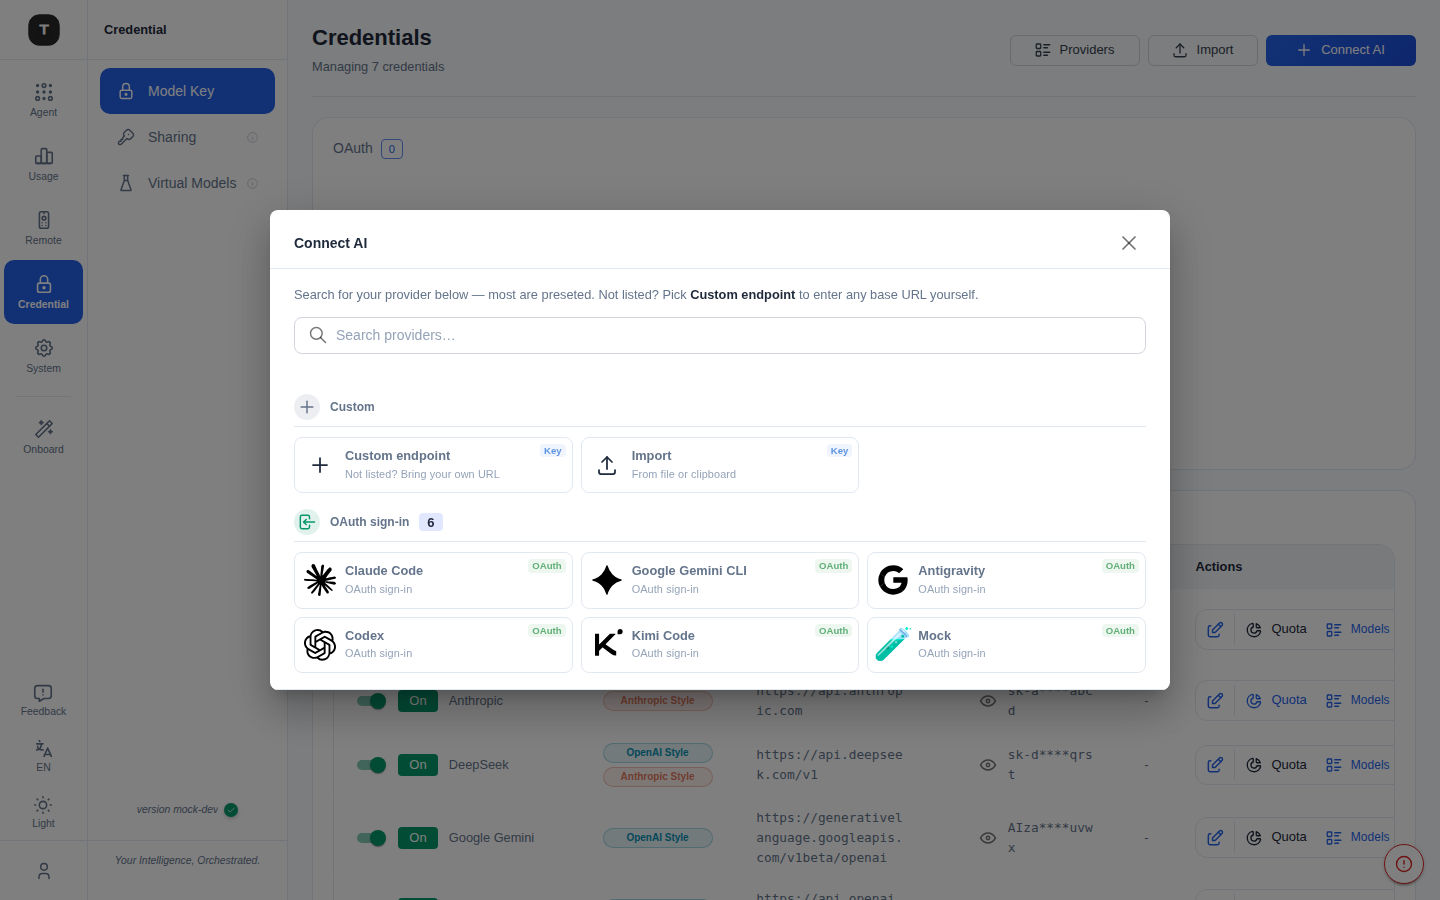
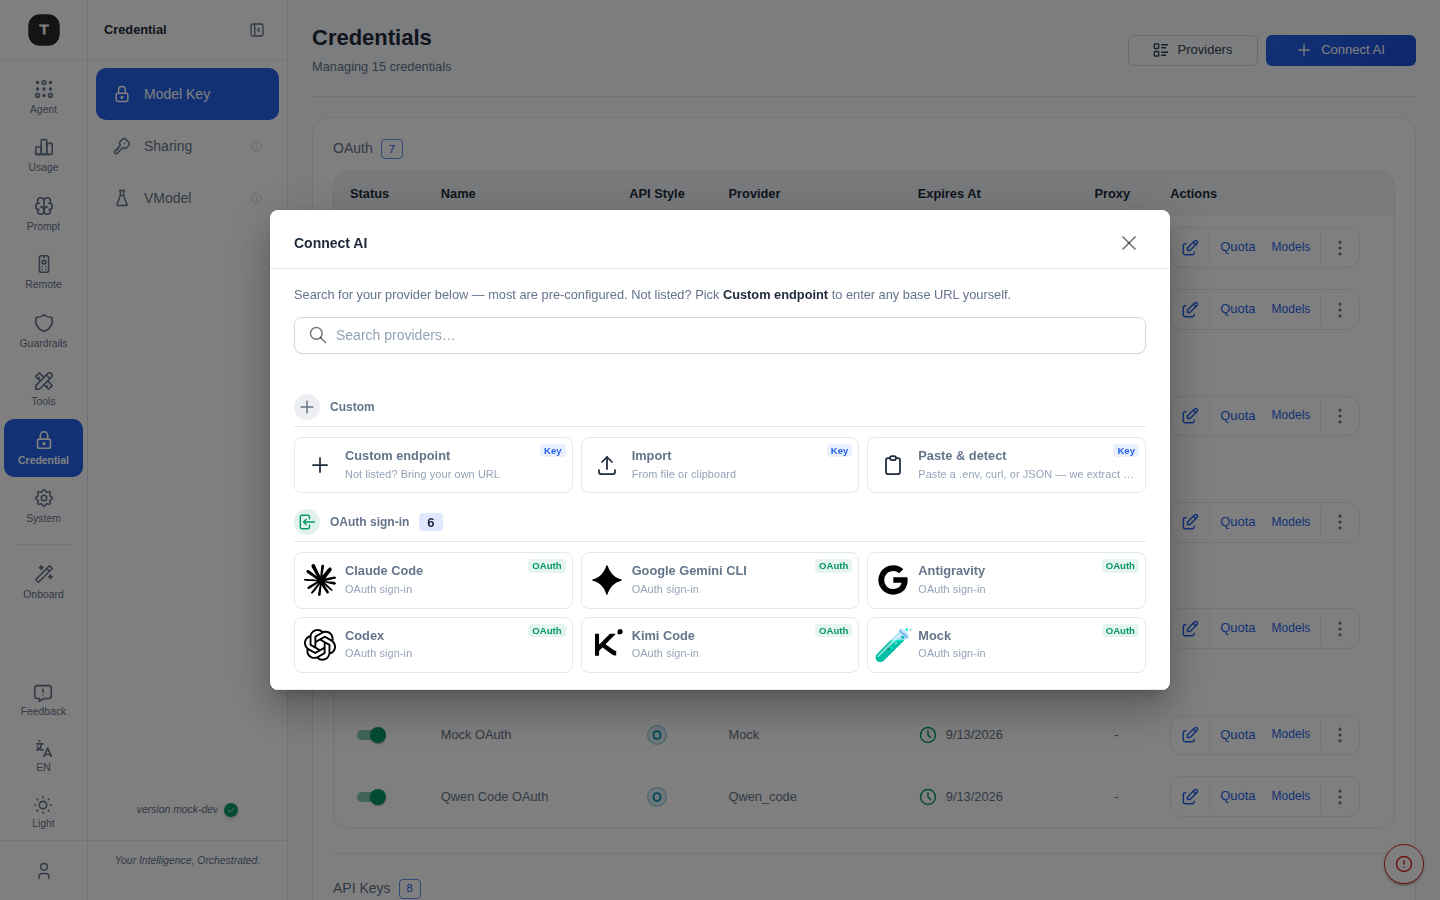
chore: retake docs screenshots on fresh branch, add MCP shot, unlock experimental flags in mocks
Upstream changed substantially since the last capture (389 commits): new
Response Performance panel on the dashboard, regrouped Agent/Credential
sidebar nav, and both Guardrails and MCP Tools moved behind an experimental
feature flag (/api/v1/scenario/_global/flag/{guardrails,mcp}) with no mock
handler, so both pages previously 404'd/redirected in mock mode.

- Added a mock handler for GET/PUT /api/v1/scenario/:scenario/flag/:flag
  that always returns enabled, so both gated pages render for screenshots.
- Added mock MCP runtime config (GET/PUT /api/v1/mcp/config, GET
  /api/v1/mcp/clients) with a builtin webtools source plus filesystem/
  github/postgres example servers, so the new MCP Tools page has content.
- Added 10-mcp.png (MCP Tools → Registered Servers) to the screenshot set.
- Retook all 9 core product shots + 3 theme previews at 1440×900.
- output.gif now built from only the 8 core product-story shots
  (dashboard, agents, connect-ai, model-select, claude-code, routing,
  remote, heatmap) — guardrails and mcp are opt-in experimental features
  and are intentionally excluded from the animated GIF.

https://claude.ai/code/session_016HvDjTqYfqLtgTjfoiJg1W

diff --git a/frontend/src/mocks/handlers.ts b/frontend/src/mocks/handlers.ts
@@ -2036,6 +2036,19 @@ export const handlers = [
         return HttpResponse.json({ success: true, data: { scenario, ...body } })
     }),
 
+    // Experimental feature flags (guardrails, mcp, skill_user, skill_ide) —
+    // enable them all in mock mode so their gated pages are screenshot-able.
+    http.get('/api/v1/scenario/:scenario/flag/:flag', ({ params }) => {
+        const { scenario, flag } = params as { scenario: string; flag: string }
+        return HttpResponse.json({ success: true, data: { scenario, flag, value: true } })
+    }),
+
+    http.put('/api/v1/scenario/:scenario/flag/:flag', async ({ params, request }) => {
+        const { scenario, flag } = params as { scenario: string; flag: string }
+        const body = await request.json() as { value?: boolean }
+        return HttpResponse.json({ success: true, data: { scenario, flag, value: body.value ?? true } })
+    }),
+
     http.post('/api/v1/rule', async ({ request }) => {
         const body = await request.json() as any
         const scenario = body.scenario?.trim()
@@ -2245,6 +2258,46 @@ export const handlers = [
     }),
 
     http.get('/api/v1/guardrails/credentials', () => {
+        return HttpResponse.json({ success: true, data: [] })
+    }),
+
+    // ============================================
+    // MCP (Model Context Protocol) runtime config
+    // ============================================
+    http.get('/api/v1/mcp/config', () => {
+        return HttpResponse.json({
+            success: true,
+            config: {
+                sources: [
+                    { id: 'webtools', enabled: true, transport: 'advisor', visibility: 'client' },
+                    {
+                        id: 'filesystem', enabled: true, transport: 'stdio', visibility: 'server',
+                        command: 'npx', args: ['-y', '@modelcontextprotocol/server-filesystem', '/home/user/projects'],
+                        tools: ['read_file', 'write_file', 'list_directory'],
+                    },
+                    {
+                        id: 'github', enabled: true, transport: 'http', visibility: 'client',
+                        endpoint: 'https://api.githubcopilot.com/mcp',
+                        tools: ['search_repositories', 'create_issue', 'get_pull_request'],
+                    },
+                    {
+                        id: 'postgres', enabled: false, transport: 'stdio', visibility: 'server',
+                        command: 'npx', args: ['-y', '@modelcontextprotocol/server-postgres'],
+                        tools: ['query'],
+                    },
+                ],
+                request_timeout: 30000,
+                strip_disabled_mcp_tools: true,
+            },
+        })
+    }),
+
+    http.put('/api/v1/mcp/config', async ({ request }) => {
+        const body = await request.json() as any
+        return HttpResponse.json({ success: true, config: body })
+    }),
+
+    http.get('/api/v1/mcp/clients', () => {
         return HttpResponse.json({ success: true, data: [] })
     }),
 
